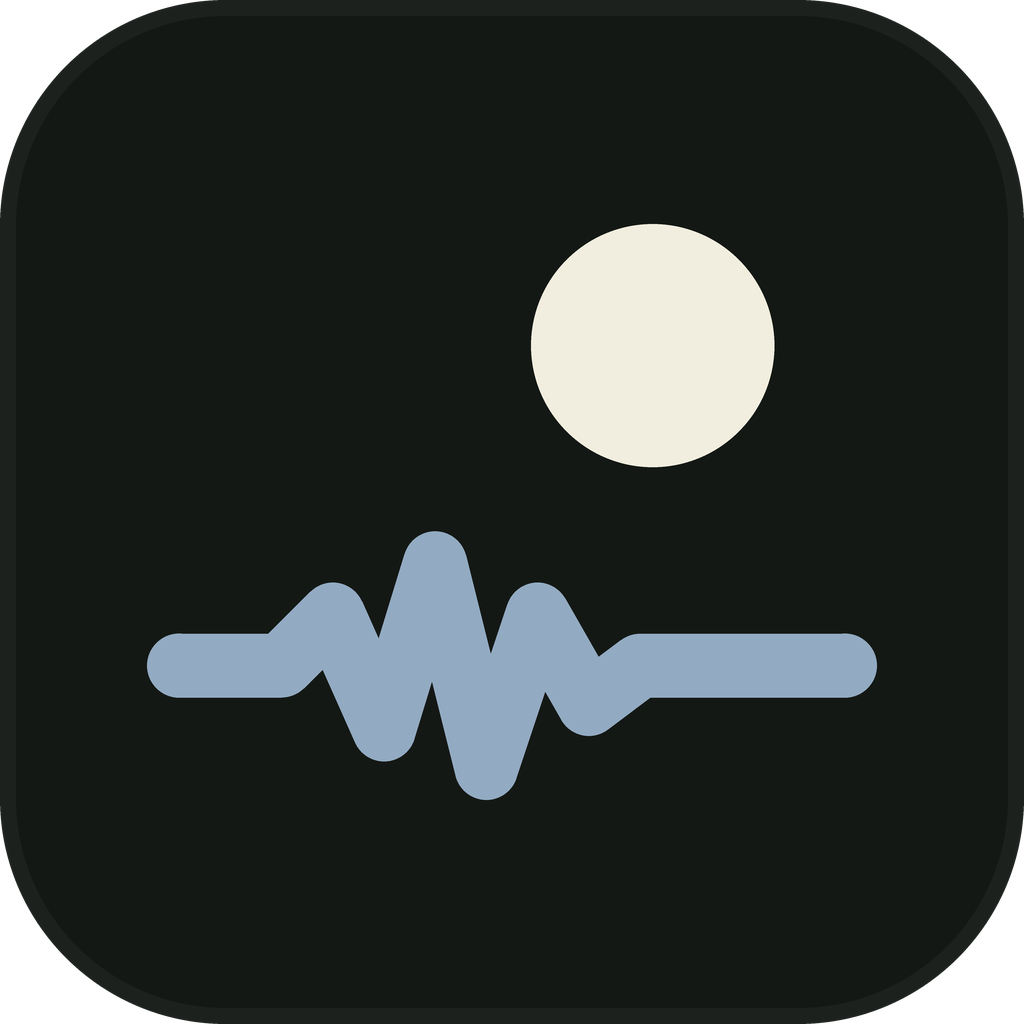
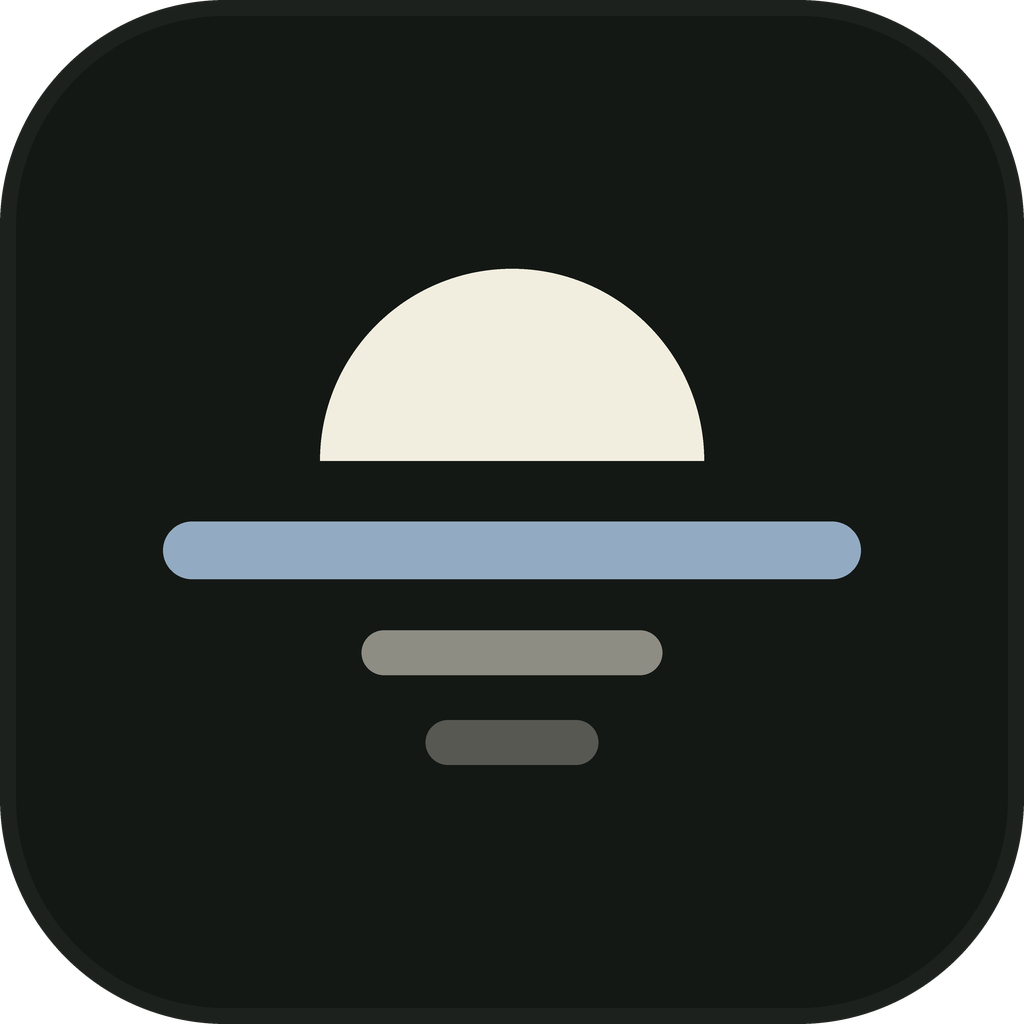
Make Moonrise the Northlight mark
A half moon risen over the horizon, its light broken on the water below in
two fading strokes. scripts/brand-assets.py holds the geometry once and
regenerates the mark, lockups and app icon PNGs (the reflection is left out
below 48 px), and now also writes the wordmark on its own. The in-app 16 px
icon is the moon and horizon only. The brand guide and brief describe it.

Changed region(s): [[0.125, 0.5, 0.875, 0.7812], [0.3125, 0.2188, 0.7812, 0.4688]]

diff --git a/scripts/brand-assets.py b/scripts/brand-assets.py
@@ -1,7 +1,7 @@
 #!/usr/bin/env python3
 """Writes the Northlight brand files in assets/brand from one definition of the mark.
 
-The mark (docs/design/15-brand.md) is a moon over a waveform horizon on a 64-unit
+The mark (docs/design/15-brand.md) is Moonrise, a half moon over the horizon with its reflection, on a 64-unit
 grid. The wordmark is "Northlight" in Newsreader, turned into outlines so the files
 need no font. The app icon PNGs are drawn from the same geometry.
 
@@ -24,11 +24,16 @@ ROOT = pathlib.Path(__file__).resolve().parent.parent
 OUT = ROOT / "assets" / "brand"
 
 # ----- the mark, on a 64-unit grid -------------------------------------------------------------
-MOON = (43.0, 19.0, 9.5)  # centre x, centre y, radius: off-centre, as in the moodboard
-HORIZON = [(6, 44), (14, 44), (18, 40), (22, 49), (26, 36), (30, 52), (34, 40), (38, 47), (42, 44), (58, 44)]
-# A short burst of audio that settles back to the flat horizon.
-STROKE = 5.0
-BASELINE = 44.0  # the wordmark sits on the horizon line
+# Moonrise: a half moon risen over the horizon, its light broken on the water
+# below in two fading strokes (which also read, quietly, as levels).
+MOON = (32.0, 28.0, 15.0)  # the centre of the moon's flat base, and its radius
+HORIZON = ((7.0, 35.0), (57.0, 35.0))
+STROKE = 4.5
+# The reflection: (x0, x1, y, opacity), drawn in the moon's colour.
+REFLECTION = ((22.0, 42.0, 43.0, 0.55), (27.0, 37.0, 50.0, 0.30))
+REFLECTION_STROKE = 3.5
+BASELINE = 35.0  # the wordmark sits on the horizon line
+WORDMARK_HEIGHT, WORDMARK_BASELINE = 48.0, 36.0  # the wordmark on its own
 
 # Colours from docs/design/tokens.json (Machair dusk).
 ON_DARK = {"moon": "#F1EEDF", "horizon": "#93ABC2", "text": "#E8E5DA"}
@@ -42,12 +47,19 @@ OVERCAST_RGB = (0x93, 0xAB, 0xC2)
 
 def mark_paths(colours, dx=0.0, dy=0.0):
     cx, cy, r = MOON
-    points = " ".join(f"{x + dx:g},{y + dy:g}" for x, y in HORIZON)
-    return (
-        f'<circle cx="{cx + dx:g}" cy="{cy + dy:g}" r="{r:g}" fill="{colours["moon"]}"/>'
-        f'<polyline points="{points}" fill="none" stroke="{colours["horizon"]}" stroke-width="{STROKE:g}" '
-        'stroke-linecap="round" stroke-linejoin="round"/>'
+    (hx0, hy), (hx1, _) = HORIZON
+    out = (
+        f'<path d="M{cx - r + dx:g} {cy + dy:g} A{r:g} {r:g} 0 0 1 {cx + r + dx:g} {cy + dy:g} Z" '
+        f'fill="{colours["moon"]}"/>'
+        f'<path d="M{hx0 + dx:g} {hy + dy:g} H{hx1 + dx:g}" stroke="{colours["horizon"]}" '
+        f'stroke-width="{STROKE:g}" stroke-linecap="round"/>'
     )
+    for x0, x1, y, opacity in REFLECTION:
+        out += (
+            f'<path d="M{x0 + dx:g} {y + dy:g} H{x1 + dx:g}" stroke="{colours["moon"]}" '
+            f'stroke-width="{REFLECTION_STROKE:g}" stroke-linecap="round" opacity="{opacity:g}"/>'
+        )
+    return out
 
 
 def svg(width, height, body, title):
@@ -85,23 +97,40 @@ def lockup(colours, letters, advance, title):
     return svg(width, 64, body, title)
 
 
+def wordmark_svg(colours, letters, advance, title):
+    """The wordmark alone: 48 units tall with the baseline at 36 (room for the g)."""
+    body = f'<path transform="translate(0 {WORDMARK_BASELINE:g})" d="{letters}" fill="{colours["text"]}"/>'
+    return svg(advance, WORDMARK_HEIGHT, body, title)
+
+
 # ----- the app icon ----------------------------------------------------------------------------
+def _stroke(draw, x0, x1, y, width, fill):
+    """A horizontal stroke with round caps."""
+    draw.rectangle([x0, y - width / 2, x1, y + width / 2], fill=fill)
+    for x in (x0, x1):
+        draw.ellipse([x - width / 2, y - width / 2, x + width / 2, y + width / 2], fill=fill)
+
+
 def icon_png(size):
-    """A rounded peat square with the mark, drawn at 4x and reduced (anti-aliased)."""
+    """A rounded peat square with the mark, drawn at 4x and reduced (anti-aliased).
+    Below 48 px the reflection is left out: it would only blur the horizon."""
     s = size * 4
     image = Image.new("RGBA", (s, s), (0, 0, 0, 0))
     draw = ImageDraw.Draw(image)
     draw.rounded_rectangle([0, 0, s - 1, s - 1], radius=int(s * 0.22), fill=PEAT, outline=TURF, width=max(1, s // 64))
     # The 64-unit mark inside an 80% square.
     unit = s * 0.80 / 64.0
-    ox = oy = s * 0.10
+    o = s * 0.10
     cx, cy, r = MOON
-    draw.ellipse([ox + (cx - r) * unit, oy + (cy - r) * unit, ox + (cx + r) * unit, oy + (cy + r) * unit], fill=MOON_RGB)
-    width = int(round(STROKE * unit))
-    points = [(ox + x * unit, oy + y * unit) for x, y in HORIZON]
-    draw.line(points, fill=OVERCAST_RGB, width=width, joint="curve")
-    for x, y in (points[0], points[-1]):  # round caps
-        draw.ellipse([x - width / 2, y - width / 2, x + width / 2, y + width / 2], fill=OVERCAST_RGB)
+    draw.pieslice([o + (cx - r) * unit, o + (cy - r) * unit, o + (cx + r) * unit, o + (cy + r) * unit], 180, 360, fill=MOON_RGB)
+    (hx0, hy), (hx1, _) = HORIZON
+    _stroke(draw, o + hx0 * unit, o + hx1 * unit, o + hy * unit, STROKE * unit, OVERCAST_RGB)
+    if size >= 48:
+        for x0, x1, y, opacity in REFLECTION:
+            layer = Image.new("RGBA", (s, s), (0, 0, 0, 0))
+            _stroke(ImageDraw.Draw(layer), o + x0 * unit, o + x1 * unit, o + y * unit, REFLECTION_STROKE * unit,
+                    MOON_RGB + (int(round(255 * opacity)),))
+            image = Image.alpha_composite(image, layer)
     return image.resize((size, size), Image.LANCZOS)
 
 
@@ -128,9 +157,17 @@ def main():
     for name, colours in lockups.items():
         (OUT / name).write_text(lockup(colours, letters, advance, "Northlight"), encoding="utf-8")
 
+    wordmarks = {
+        "northlight-wordmark.svg": ON_DARK,
+        "northlight-wordmark-on-light.svg": ON_LIGHT,
+        "northlight-wordmark-mono.svg": MONO,
+    }
+    for name, colours in wordmarks.items():
+        (OUT / name).write_text(wordmark_svg(colours, letters, advance, "Northlight"), encoding="utf-8")
+
     for size in (16, 32, 48, 256, 1024):
         icon_png(size).save(OUT / f"northlight-icon-{size}.png")
-    print(f"wrote {len(marks) + len(lockups)} SVGs and 5 icon PNGs to {OUT}")
+    print(f"wrote {len(marks) + len(lockups) + len(wordmarks)} SVGs and 5 icon PNGs to {OUT}")
 
 
 if __name__ == "__main__":

diff --git a/src/ui/Icons.cpp b/src/ui/Icons.cpp
@@ -92,11 +92,9 @@ const Definition definitions[Icons::count] = {
      false},
     {"detach", "M9 2.5 H13.5 V7 M13.5 2.5 L8 8 M6.5 4 H3 V13 H12 V9.5", false},
     {"attach", "M7 9 H2.5 V13.5 M2.5 13.5 L8 8 M13 2.5 H4 V5.5 M13 2.5 V11.5 H10.5", false},
-    // The brand mark (docs/design/15-brand.md): a moon over a waveform horizon.
-    {"mark",
-     "M1.5 11 H3.5 L4.5 10 L5.5 12.25 L6.5 9 L7.5 13 L8.5 10 L9.5 11.75 L10.5 11 H14.5",
-     false,
-     "M13.125 4.75 A2.375 2.375 0 1 1 13.115 4.75 Z"},
+    // The brand mark (docs/design/15-brand.md): Moonrise, a half moon over the horizon (its reflection left
+    // out at 16 px).
+    {"mark", "M1.75 11 H14.25", false, "M4.25 9 A3.75 3.75 0 0 1 11.75 9 Z"},
     {"pianoRoll", "M2.5 3.5 H13.5 V12.5 H2.5 Z M5.5 3.5 V12.5 M9.5 3.5 V12.5 M2.5 8 H13.5", false},
     {"diagnostics", "M2 9 H4.5 L6.5 4 L9.5 12 L11.5 7 H14", false},
     {"menu", "M3 4.5 H13 M3 8 H13 M3 11.5 H13", false},

diff --git a/src/ui/Icons.h b/src/ui/Icons.h
@@ -69,7 +69,7 @@ enum class Icon
     midiPort,
     detach,
     attach,
-    mark, // the Northlight mark: a circle with one waveform stroke
+    mark, // the Northlight mark: Moonrise, a half moon over the horizon
     pianoRoll,
     diagnostics,
     menu,

diff --git a/docs/design/15-brand.md b/docs/design/15-brand.md
@@ -22,8 +22,9 @@ light the longest, and a moon comes up before it is dark. Northlight borrows tha
 
 ## The mark
 
-A moon over a waveform horizon. The horizon is flat, breaks into a short burst of sound
-and settles flat again; the moon sits low and to the right, as it did in the moodboard.
+Moonrise: a half moon risen over the horizon, its light broken on the water below in
+two fading strokes. The reflection is the Hebridean sea at dusk, and, quietly, a pair of
+levels.
 
 | File (in `assets/brand/`) | Use |
 |---|---|
@@ -33,11 +34,14 @@ and settles flat again; the moon sits low and to the right, as it did in the moo
 | `northlight-lockup.svg` and `-on-light`, `-mono` | The mark with the wordmark, for the website, the about screen, documents |
 | `northlight-icon-{16,32,48,256,1024}.png` | The app icon: the mark on a rounded Peat square |
 
-All of them come from `scripts/brand-assets.py`, which holds the geometry once (a
-64-unit grid: the moon at 43, 19 with radius 9.5; the horizon's points; a 5-unit stroke)
-and outlines the wordmark from Newsreader. Change the mark there and regenerate; the
-app's 16 px version is the `mark` entry in `src/ui/Icons.cpp`, the same shape scaled to
-a quarter.
+All of them come from `scripts/brand-assets.py`, which holds the geometry once, on a
+64-unit grid: the half moon's base centred at 32, 28 with radius 15; the horizon from 7 to
+57 at 35, a 4.5-unit stroke; the reflection at 22 to 42 (y 43, 55% opacity) and 27 to 37
+(y 50, 30%), 3.5-unit strokes in the moon's colour. It also outlines the wordmark from
+Newsreader. Change the mark there and regenerate. The app's 16 px version is the `mark`
+entry in `src/ui/Icons.cpp`: the moon and horizon at a quarter, without the reflection,
+which at that size reads as an equals sign. The app icon PNGs below 48 px leave it out
+too.
 
 Using the mark:
 
@@ -45,8 +49,10 @@ Using the mark:
 - **Minimum size**: 16 px for the mark alone; 96 px wide for the lockup.
 - **The wordmark sits on the horizon**: in the lockup the baseline of "Northlight" is
   the horizon line, and the mark is never placed after the word.
-- **Do not** recolour the moon in the accent, outline the moon, add a gradient or a glow,
-  rotate the mark, or set the wordmark in another face.
+- **On a photograph** (the splash), the whole mark is drawn in moonlight: the Overcast
+  horizon would vanish into an overcast sky.
+- **Do not** recolour the moon in the accent, outline the moon, make it a full circle,
+  add a gradient or a glow, rotate the mark, or set the wordmark in another face.
 
 ## Colour
 

diff --git a/docs/design/01-brief.md b/docs/design/01-brief.md
@@ -77,7 +77,7 @@ completeness.
   surfaces, an overcast-blue accent, moon-cream text, track colours from the land.
 - **Name**: Northlight. Wordmark in Newsreader, set on the mark's horizon line; the
   window title uses the project name.
-- **Mark**: a moon over a waveform horizon, the moon low and to the right. Used for the
+- **Mark**: Moonrise, a half moon risen over the horizon with its reflection on the water. Used for the
   app icon, the empty-project state, the about screen and the website. Files in
   `assets/brand/`, made by `scripts/brand-assets.py`.
 - **Palette direction**: a dark peat-green base, neutral surfaces stepping up by
